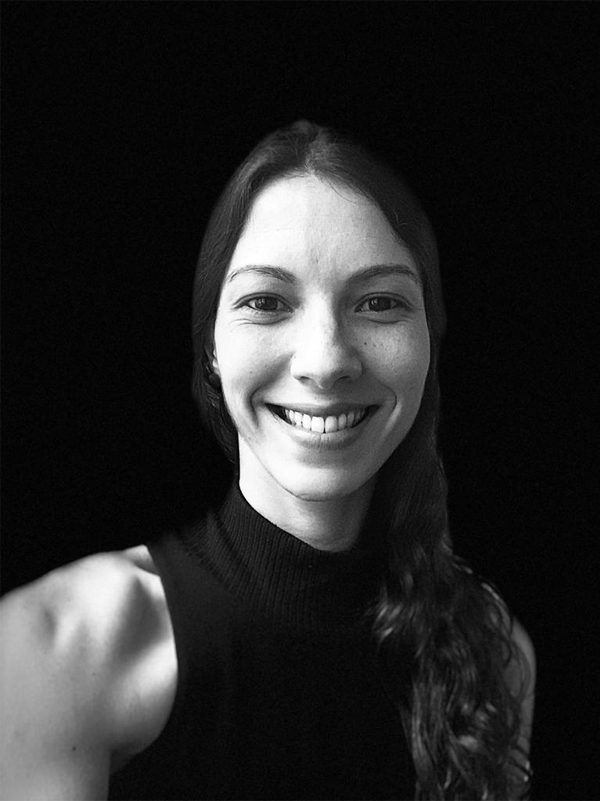
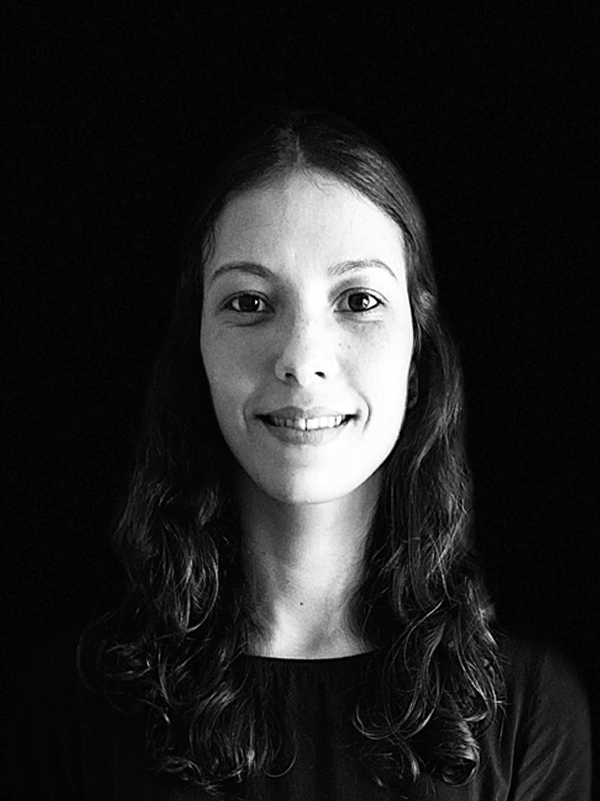
Alteracao da foto da Michele + inclusao do Jose

diff --git a/src/parts/team-section.html b/src/parts/team-section.html
@@ -111,6 +111,22 @@
                 </div><!-- /member -->
             </div><!-- /col -->
 
+            <div class="col-lg-4 col-md-6">
+                <div class="member" data-aos="zoom-in" data-aos-delay="600">
+                    <div class="pic">
+                        <img src="assets/img/team/team-jose.png" class="img-fluid" alt="">
+                    </div><!-- /pic -->
+                    <div class="member-info">
+                        <h4>
+                            José Gabriel Bernardes
+                        </h4>
+                        <span>
+                            <a href="https://www.linkedin.com/in/jose-gabriel-bernardes-51637012a/" target="_blank" title="Acessar linkedin do José Gabriel Bernardes" class="ico"><i class="icofont-linkedin"></i></a> analista
+                        </span>
+                    </div><!-- /member-info -->
+                </div><!-- /member -->
+            </div><!-- /col -->
+
         </div><!-- /row -->
 
     <!--</div> /container -->

diff --git a/dist/index.html b/dist/index.html
@@ -521,6 +521,22 @@
                 </div><!-- /member -->
               </div><!-- /col -->
 
+              <div class="col-lg-4 col-md-6">
+                <div class="member" data-aos="zoom-in" data-aos-delay="600">
+                  <div class="pic">
+                    <img src="assets/img/team/team-jose.png" class="img-fluid" alt="">
+                  </div><!-- /pic -->
+                  <div class="member-info">
+                    <h4>
+                      José Gabriel Bernardes
+                    </h4>
+                    <span>
+                      <a href="https://www.linkedin.com/in/jose-gabriel-bernardes-51637012a/" target="_blank" title="Acessar linkedin do José Gabriel Bernardes" class="ico"><i class="icofont-linkedin"></i></a> analista
+                    </span>
+                  </div><!-- /member-info -->
+                </div><!-- /member -->
+              </div><!-- /col -->
+
             </div><!-- /row -->
 
             <!--</div> /container -->
